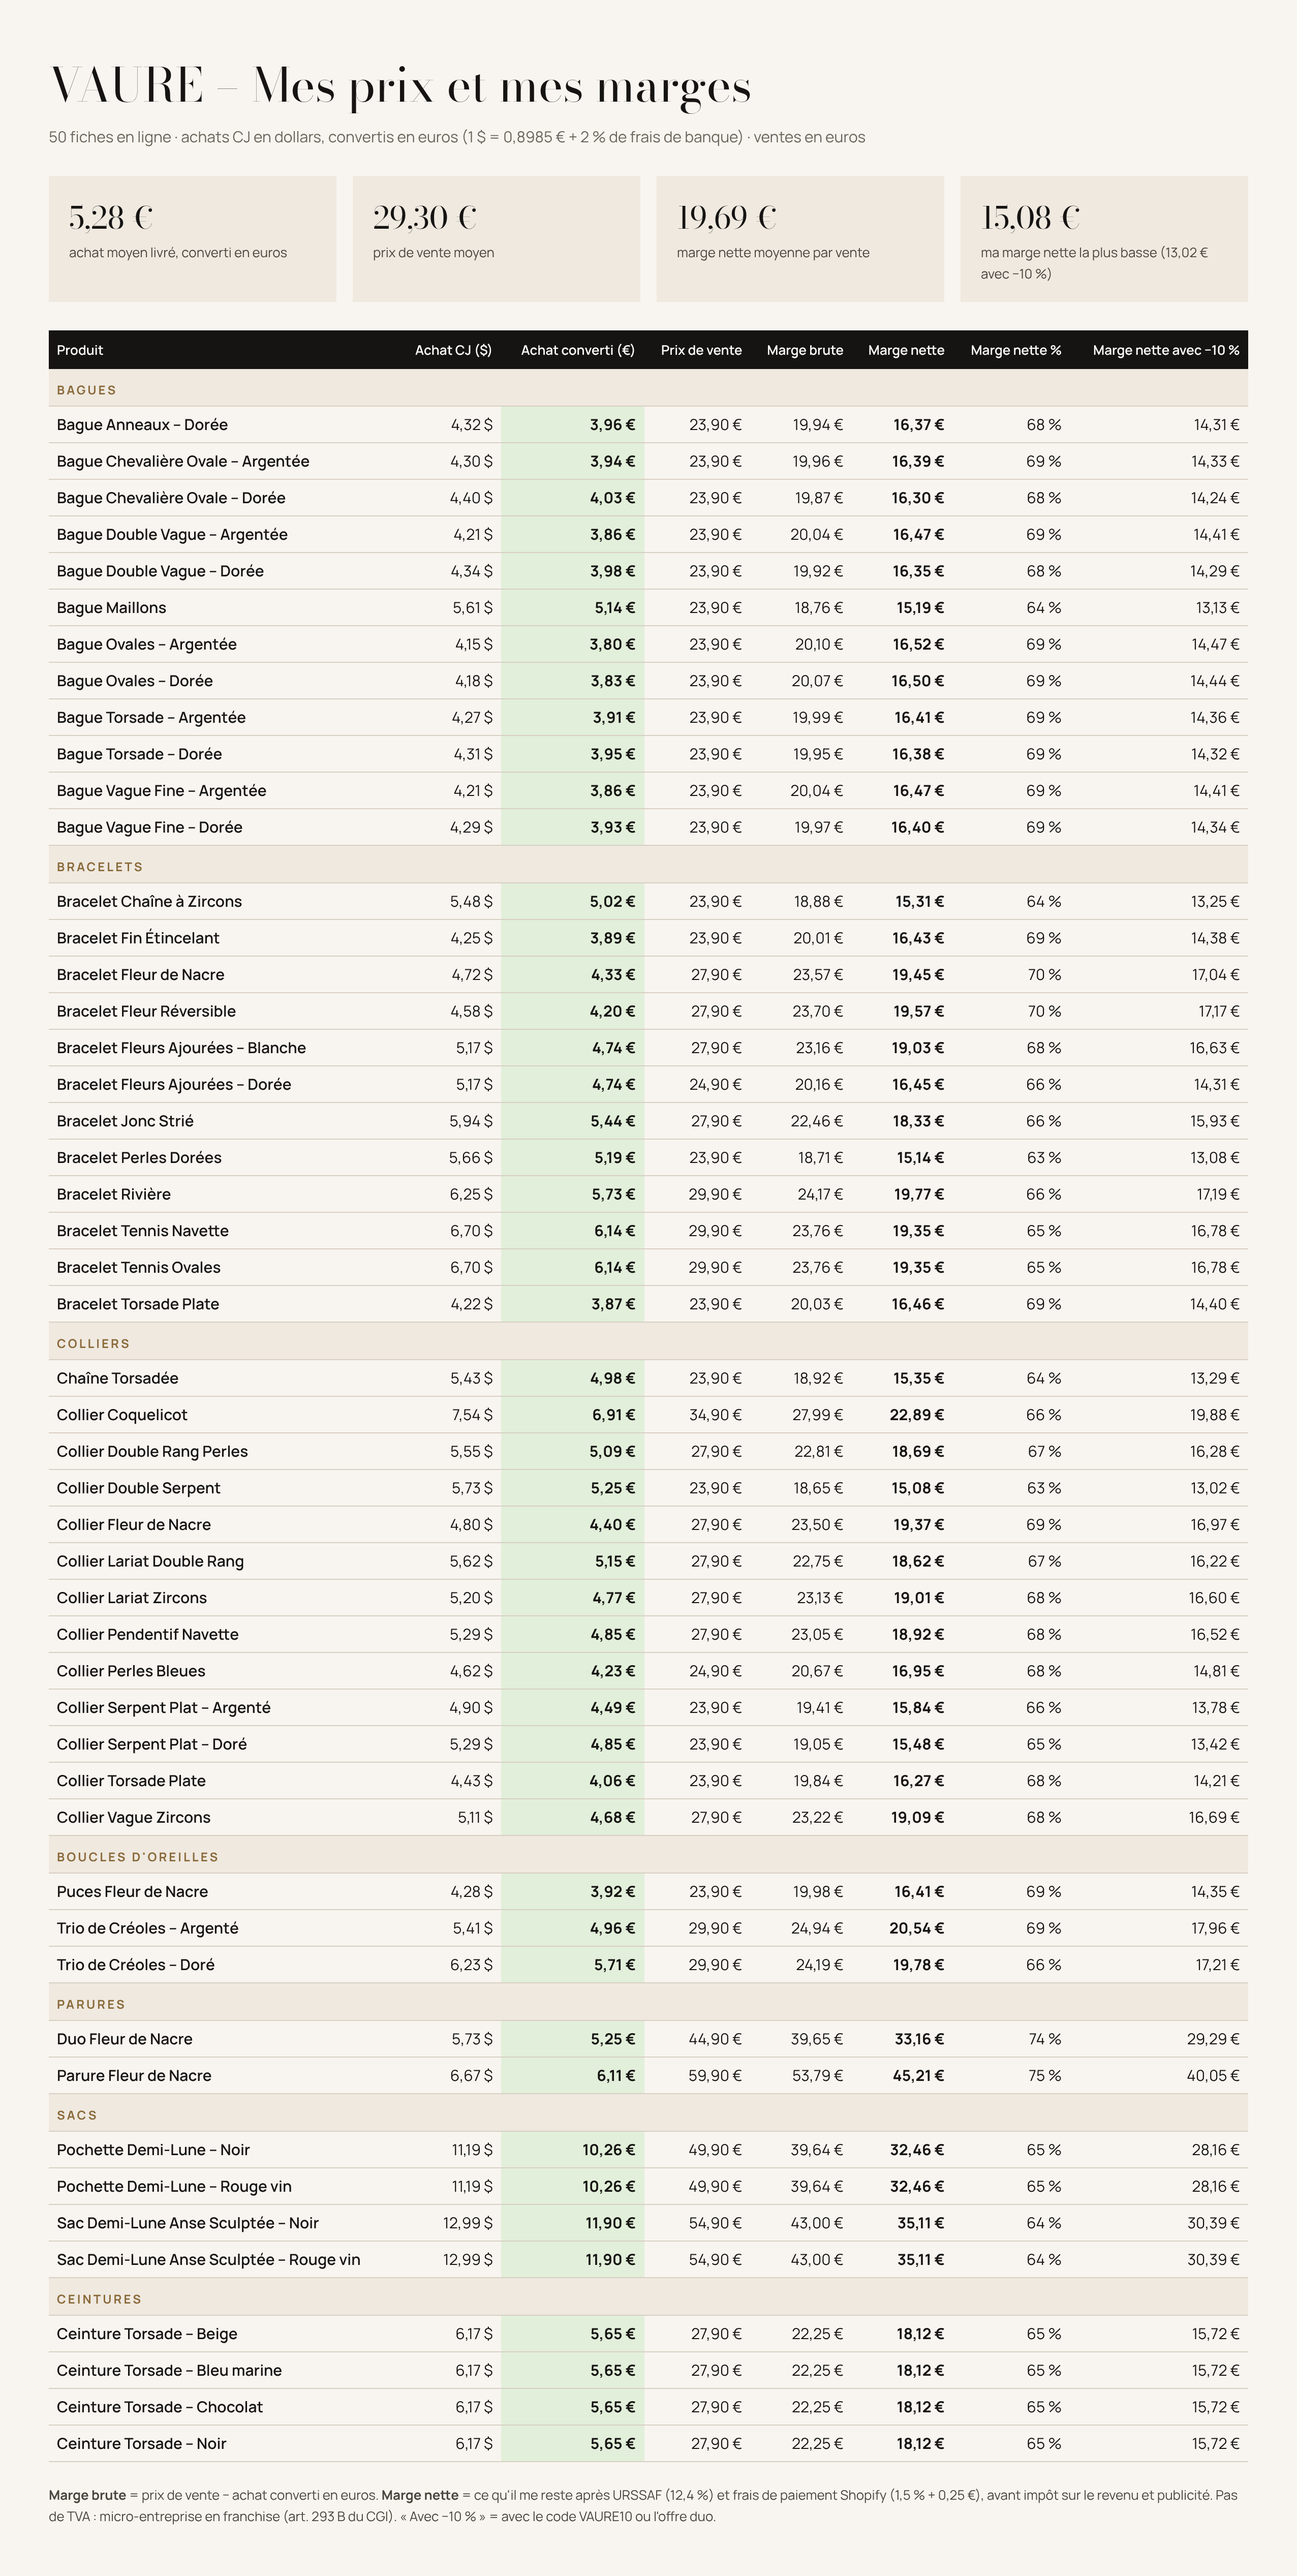
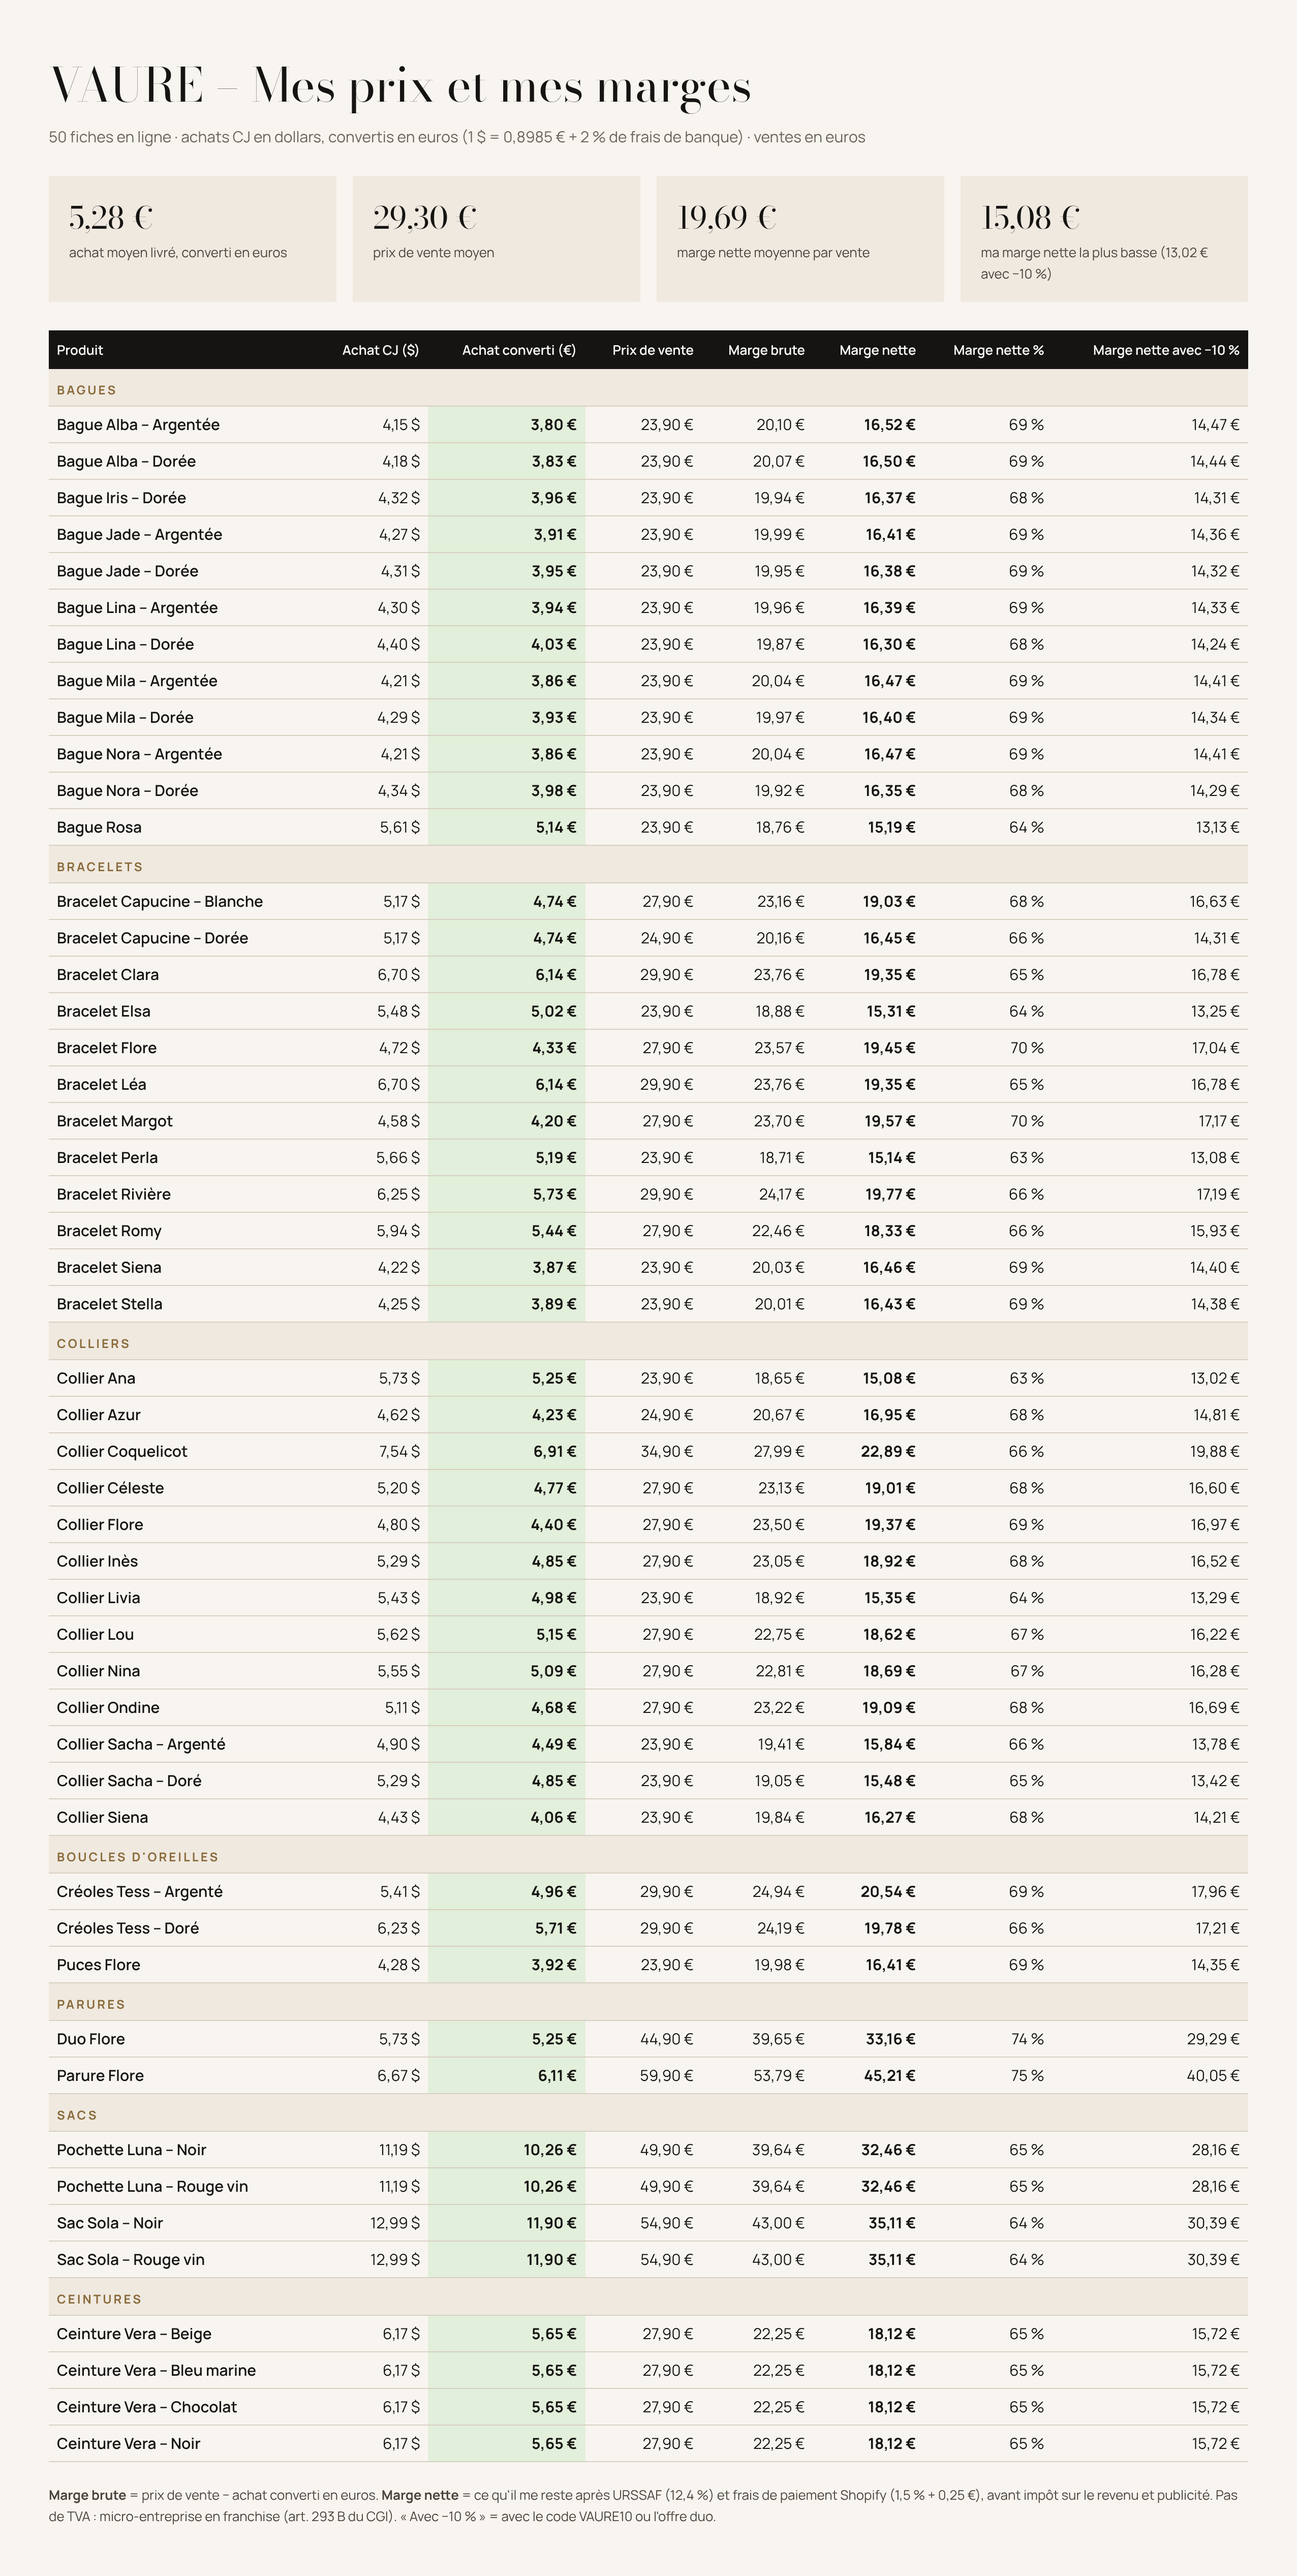
VAURE : prénoms pour chaque produit (fiches, Journal, Excel, image, liaison CJ)
Claude-Session: https://claude.ai/code/session_013s4U6wyjEEiqqasJXAgjhq

diff --git a/vaure/docs/regles-produits.md b/vaure/docs/regles-produits.md
@@ -42,3 +42,9 @@
 ## 8. Une fiche = un produit
 - Chaque modèle a sa propre fiche. On ne regroupe jamais plusieurs modèles différents (collier et bracelet, formes de pierres, styles de bague, duo et parure) dans une même fiche.
 - Seules exceptions : les couleurs doré/argenté (fiches séparées reliées par les pastilles) et les tailles d'un même modèle (ex. Bague Maillons 52/54/57).
+
+## 9. Noms des produits
+- Chaque modèle porte un prénom, le même pour toutes ses couleurs : « Bague Lina – Dorée », « Bague Lina – Argentée ».
+- Les pièces assorties partagent le même prénom (Collier, Bracelet, Puces, Duo et Parure Flore ; Collier et Bracelet Siena).
+- Exceptions gardées : Bracelet Rivière (bannière de l'accueil) et Collier Coquelicot.
+- Les adresses des pages (handles) ne changent pas, pour ne casser aucun lien.
